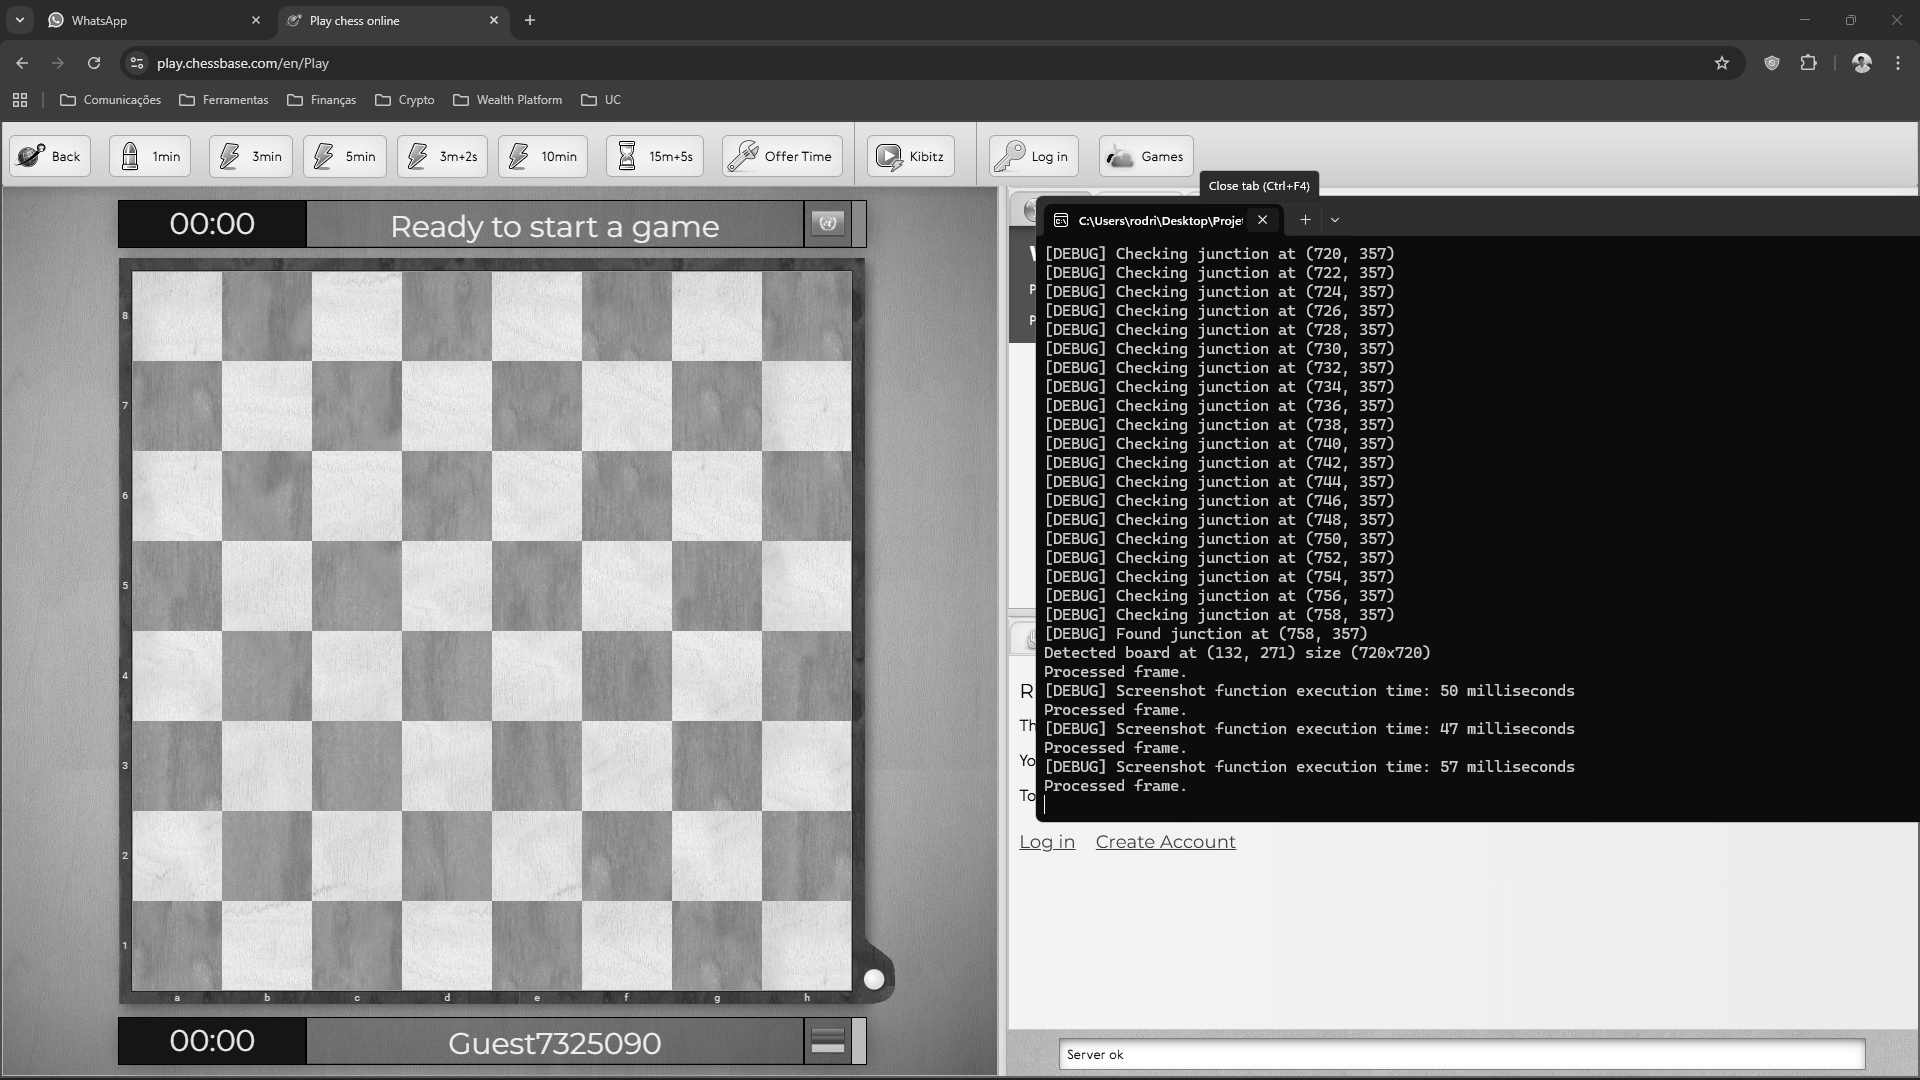
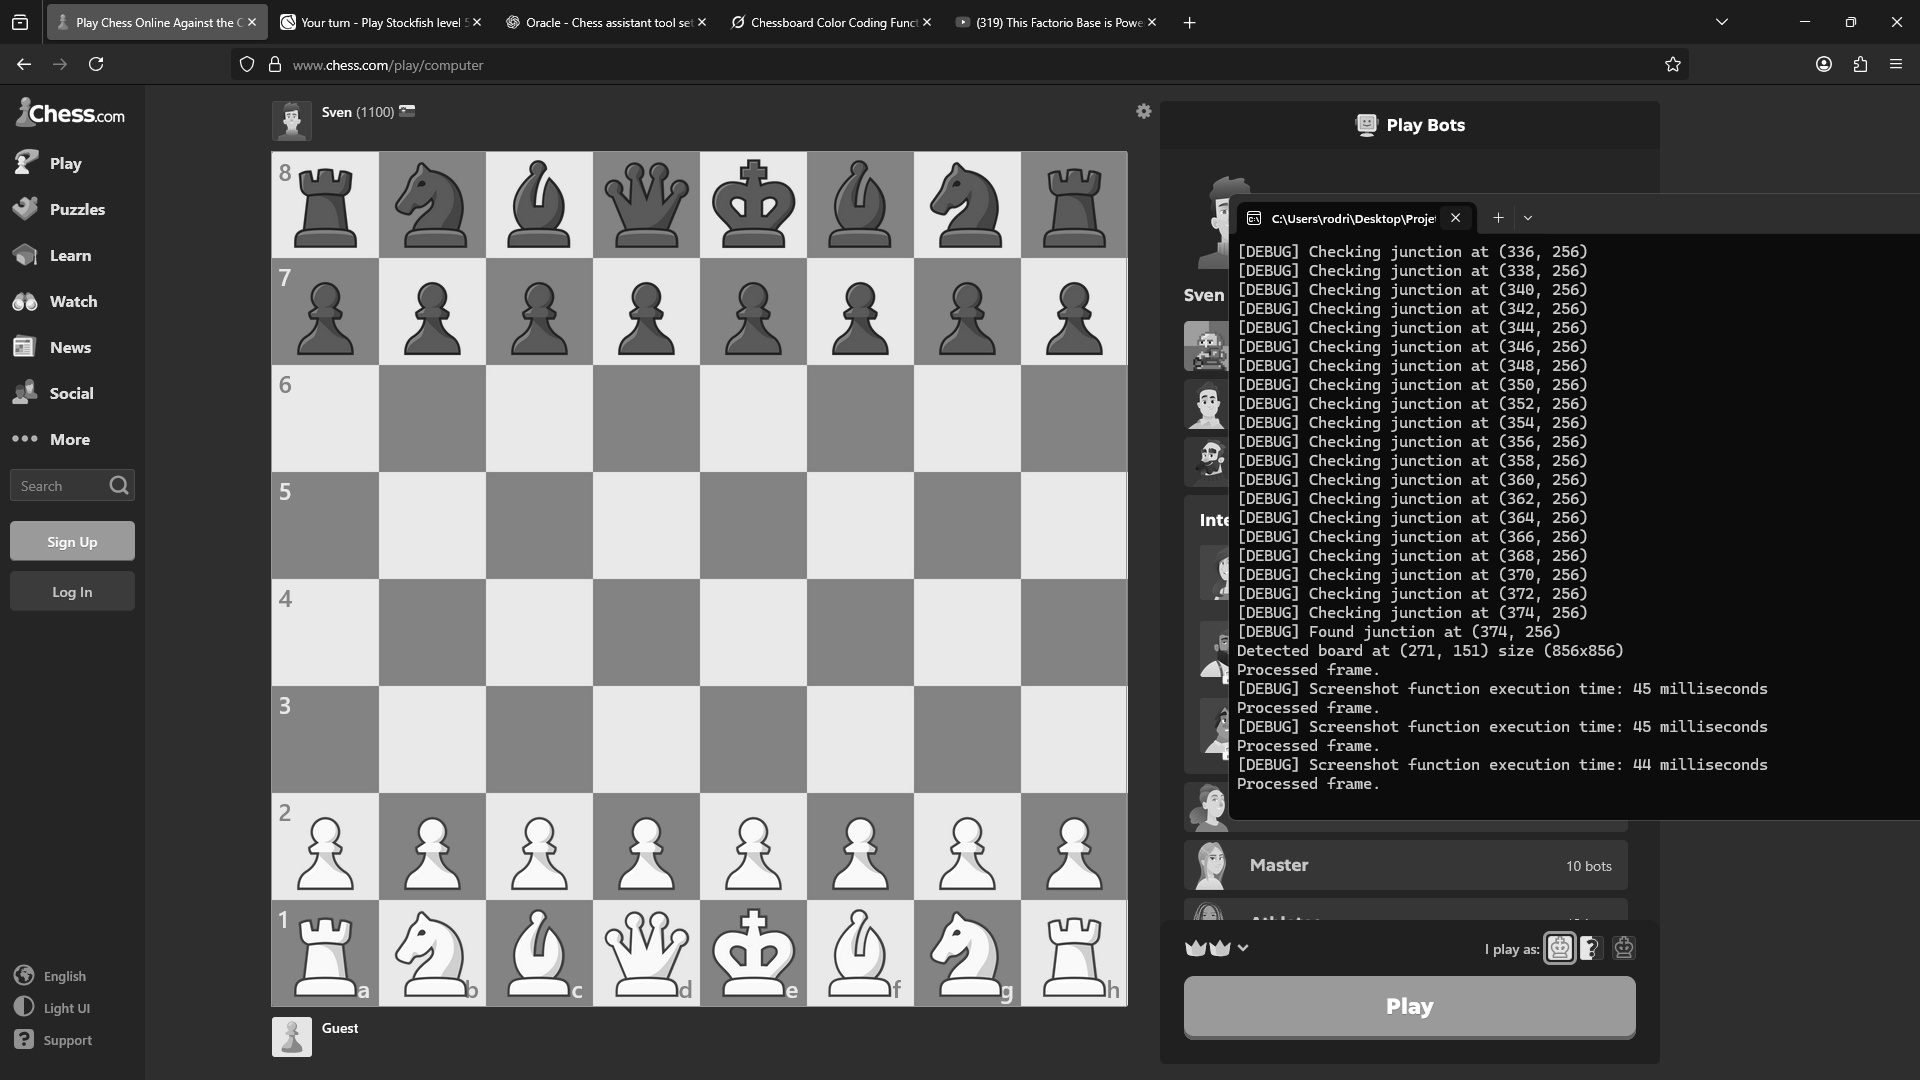
Implement board orientation detection.

diff --git a/Oracle/ChessboardDetection.cpp b/Oracle/ChessboardDetection.cpp
@@ -1,4 +1,4 @@
-#include "Vision.h"
+#include "ChessboardDetection.h"
 
 std::pair<CLICK, CLICK> CLICKS;
 
@@ -27,7 +27,7 @@ std::optional<cv::Rect> ValidateChessboard(const cv::Mat& gray, const cv::Rect& 
 
     uchar colorA = CLICKS.first.grayscaleValue;
     uchar colorB = CLICKS.second.grayscaleValue;
-    const int colorThreshold = 30; // Acceptable difference for color match.
+    const int colorThreshold = 5; // Acceptable difference for color match.
 
     std::vector<cv::Point> junctions;
     int totalChecks = 0;
@@ -46,8 +46,6 @@ std::optional<cv::Rect> ValidateChessboard(const cv::Mat& gray, const cv::Rect& 
                 {x - offset, y + offset}, // BL.
                 {x + offset, y + offset}  // BR.
             };
-
-			std::cout << "[DEBUG] Checking junction at (" << x << ", " << y << ")\n";
 
             bool valid = true;
             std::vector<double> avgs;
@@ -78,7 +76,6 @@ std::optional<cv::Rect> ValidateChessboard(const cv::Mat& gray, const cv::Rect& 
 
             if (pattern1 || pattern2) {
                 junctions.emplace_back(x + offset - patchSize, y + offset - patchSize);
-				std::cout << "[DEBUG] Found junction at (" << x << ", " << y << ")\n";
 				x += offset * 2; // Skip ahead to avoid overlapping checks.
                 junctionsFound += 1;
             }
@@ -113,8 +110,24 @@ std::optional<cv::Rect> ValidateChessboard(const cv::Mat& gray, const cv::Rect& 
     board_y = std::clamp(board_y, 0, gray.rows - board_h);
 
     cv::Rect boardRect(board_x, board_y, board_w, board_h);
-    std::cout << "Detected board at (" << boardRect.x << ", " << boardRect.y << ") size (" << boardRect.width << "x" << boardRect.height << ")\n";
+    std::cout << "[INFO] Detected board at (" << boardRect.x << ", " << boardRect.y << ") size (" << boardRect.width << "x" << boardRect.height << ")\n";
     return boardRect;
+}
+
+double SampleCellBrightness(const cv::Mat& gray, const cv::Rect& board, int row, int col) {
+    int cellW = board.width / 8;
+    int cellH = board.height / 8;
+
+    cv::Point center(
+        board.x + col * cellW + cellW / 2,
+        board.y + row * cellH + cellH / 2
+    );
+
+    int radius = std::min(cellW, cellH) / 4; 
+    cv::Rect roi(center.x - radius, center.y - radius, radius * 2, radius * 2);
+    roi &= cv::Rect(0, 0, gray.cols, gray.rows);
+
+    return cv::mean(gray(roi))[0];
 }
 
 DWORD WINAPI ChessboardDetectionThread(LPVOID param) {
@@ -125,43 +138,47 @@ DWORD WINAPI ChessboardDetectionThread(LPVOID param) {
     HWND hwndOverlay = (HWND)param;
     int drawn = 0;
 
-    while (true) {
-        // ClearBestRectangle();
+    std::cout << "[INFO] Processing chessboard." << std::endl;
 
-        // Screenshot timing.
-        start = std::chrono::high_resolution_clock::now();
-        cv::Mat screenshot = HWND2MAT(GetDesktopWindow());
-        end = std::chrono::high_resolution_clock::now();
-        duration = std::chrono::duration_cast<std::chrono::milliseconds>(end - start);
-        std::cout << "[DEBUG] Screenshot function execution time: " << duration.count() << " milliseconds" << std::endl;
+    // Screenshot timing.
+    start = std::chrono::high_resolution_clock::now();
+    cv::Mat screenshot = HWND2MAT(GetDesktopWindow());
+    end = std::chrono::high_resolution_clock::now();
+    duration = std::chrono::duration_cast<std::chrono::milliseconds>(end - start);
 
-		cv::imwrite("debug_screenshot.jpg", screenshot);
+    if (screenshot.empty()) return 0;
 
-        if (screenshot.empty()) continue;
+    // Validate the chessboard in the click-defined region.
+    cv::Rect boardRect = GetBoardROI(screenshot, CLICKS.first, CLICKS.second);
 
-        // Validate the chessboard in the click-defined region.
-        if (drawn == 0) {
-            cv::Rect boardRect = GetBoardROI(screenshot, CLICKS.first, CLICKS.second);
+    auto result = ValidateChessboard(screenshot, boardRect, screenshot);
+    if (result) {
+        // Drawing the board on the overlay.
+        const cv::Rect& fixedRect = *result;
+        RECT r = { fixedRect.x, fixedRect.y, fixedRect.x + fixedRect.width, fixedRect.y + fixedRect.height };
+        SetBestRectangle(r);
+        PostMessage(hwndOverlay, WM_CHESSBOARD_DETECTED, NULL, NULL);
 
-            std::cout << "[DEBUG] Candidate rectangle at (" << boardRect.x << ", " << boardRect.y << ") with size (" << boardRect.width << "x" << boardRect.height << ")" << std::endl;
+        // Determining piece colors by sampling rooks.
+        double topLeftRook = SampleCellBrightness(screenshot, fixedRect, 0, 0); // TL.
+        double bottomLeftRook = SampleCellBrightness(screenshot, fixedRect, 7, 0); // BL.
 
-            auto result = ValidateChessboard(screenshot, boardRect, screenshot);
-            if (result) {
-                const cv::Rect& fixedRect = *result;
-                RECT r = { fixedRect.x, fixedRect.y, fixedRect.x + fixedRect.width, fixedRect.y + fixedRect.height };
-                SetBestRectangle(r);
-            }
+        std::cout << "[DEBUG] Top-left rook brightness: " << topLeftRook << std::endl;
+        std::cout << "[DEBUG] Bottom-left rook brightness: " << bottomLeftRook << std::endl;
 
-            PostMessage(hwndOverlay, WM_CHESSBOARD_CANDIDATES, NULL, NULL);
-
-            drawn = 1;
+        if (topLeftRook > bottomLeftRook) {
+            std::cout << "[INFO] White pieces are at the top." << std::endl;
         }
-        
-
-        std::cout << "Processed frame." << std::endl;
-
-        Sleep(1000);
+        else {
+            std::cout << "[INFO] Black pieces are at the top." << std::endl;
+        }
     }
+
+    std::cout << "[INFO] Processed chessboard." << std::endl;
+
+    // Retrieve the pieces.
+    
+    Sleep(500000000);
 
     return 0;
 }

diff --git a/Oracle/Overlay.cpp b/Oracle/Overlay.cpp
@@ -13,28 +13,16 @@ LRESULT CALLBACK WndProc(HWND hwnd, UINT msg, WPARAM wParam, LPARAM lParam) {
         FillRect(hdc, &ps.rcPaint, clearBrush);
         DeleteObject(clearBrush);
 
-        // [DEBUG] Draw chessboard.
         if ((g_bestRect.right - g_bestRect.left) > 0 && (g_bestRect.bottom - g_bestRect.top) > 0) {
             HBRUSH greenBrush = CreateSolidBrush(RGB(0, 255, 0));
             FrameRect(hdc, &g_bestRect, greenBrush);
             DeleteObject(greenBrush);
         }
         
-
         EndPaint(hwnd, &ps);
     } break;
 
-    case WM_CHESSBOARD_CANDIDATES: {
-        InvalidateRect(hwnd, NULL, TRUE);
-    } break;
-
-    case WM_CHESSBOARD_FOUND: {
-        int x = LOWORD(lParam);
-        int y = HIWORD(lParam);
-        int w = LOWORD(wParam);
-        int h = HIWORD(wParam);
-
-        g_bestRect = { x, y, x + w, y + h };
+    case WM_CHESSBOARD_DETECTED: {
         InvalidateRect(hwnd, NULL, TRUE);
     } break;
 
@@ -53,7 +41,6 @@ HWND CreateOverlayWindow(HINSTANCE hInstance, const LPCWSTR className, WNDPROC w
     wc.lpfnWndProc = WndProc;
     wc.hInstance = hInstance;
     wc.lpszClassName = className;
-
     RegisterClass(&wc);
 
     HWND hwnd = CreateWindowEx(

diff --git a/Oracle/Overlay.h b/Oracle/Overlay.h
@@ -6,8 +6,7 @@
 #include <iostream>
 #include <string>
 
-#define WM_CHESSBOARD_FOUND (WM_USER + 1)
-#define WM_CHESSBOARD_CANDIDATES (WM_USER + 2)
+#define WM_CHESSBOARD_DETECTED (WM_USER + 1)
 
 /**
  * @brief Window procedure to handle messages for the overlay window.

diff --git a/Oracle/main.cpp b/Oracle/main.cpp
@@ -7,7 +7,7 @@
 
  #include "Utils.h"
  #include "Overlay.h"
- #include "Vision.h"
+ #include "ChessboardDetection.h"
 
 int main() {
 	// Initialize overlay window.
